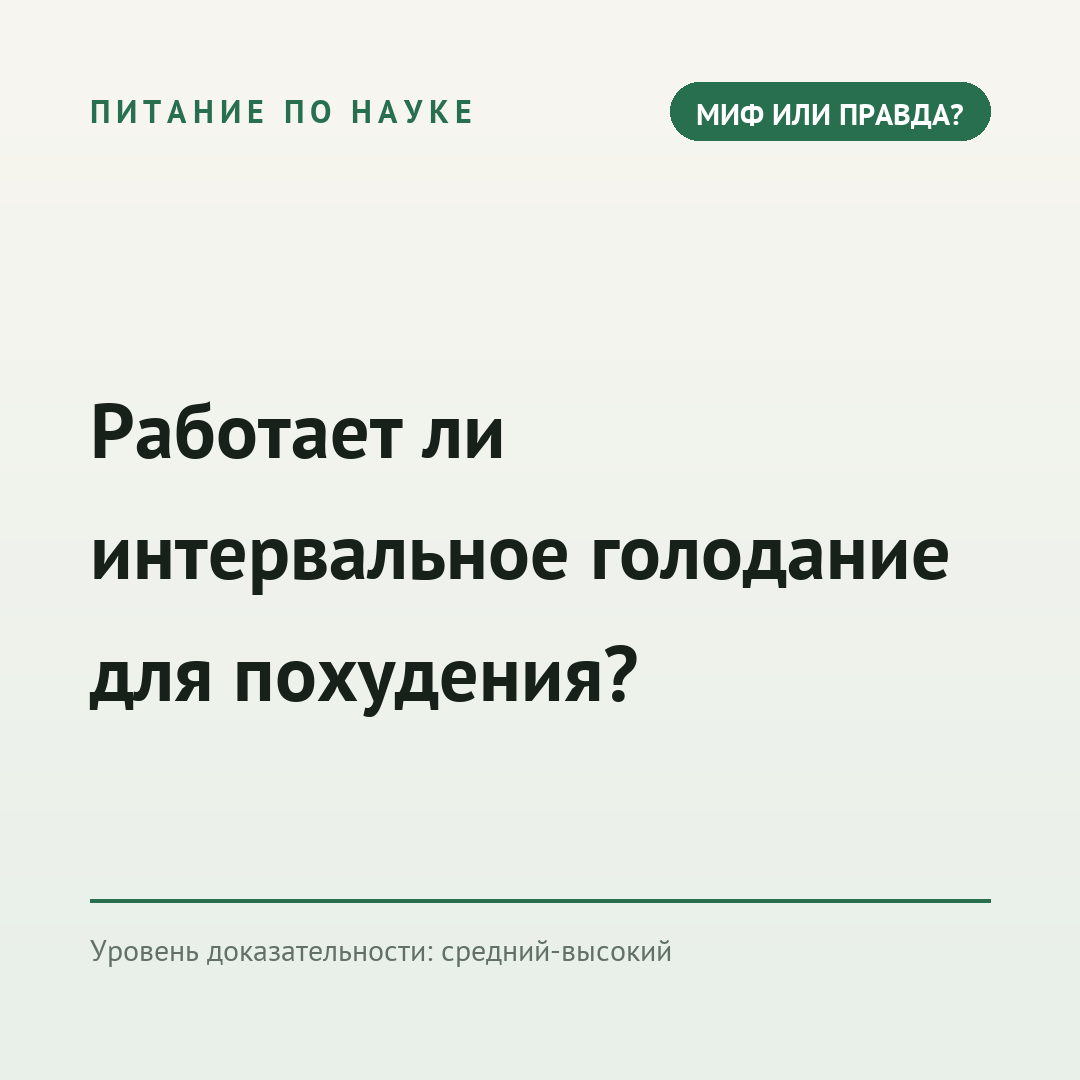
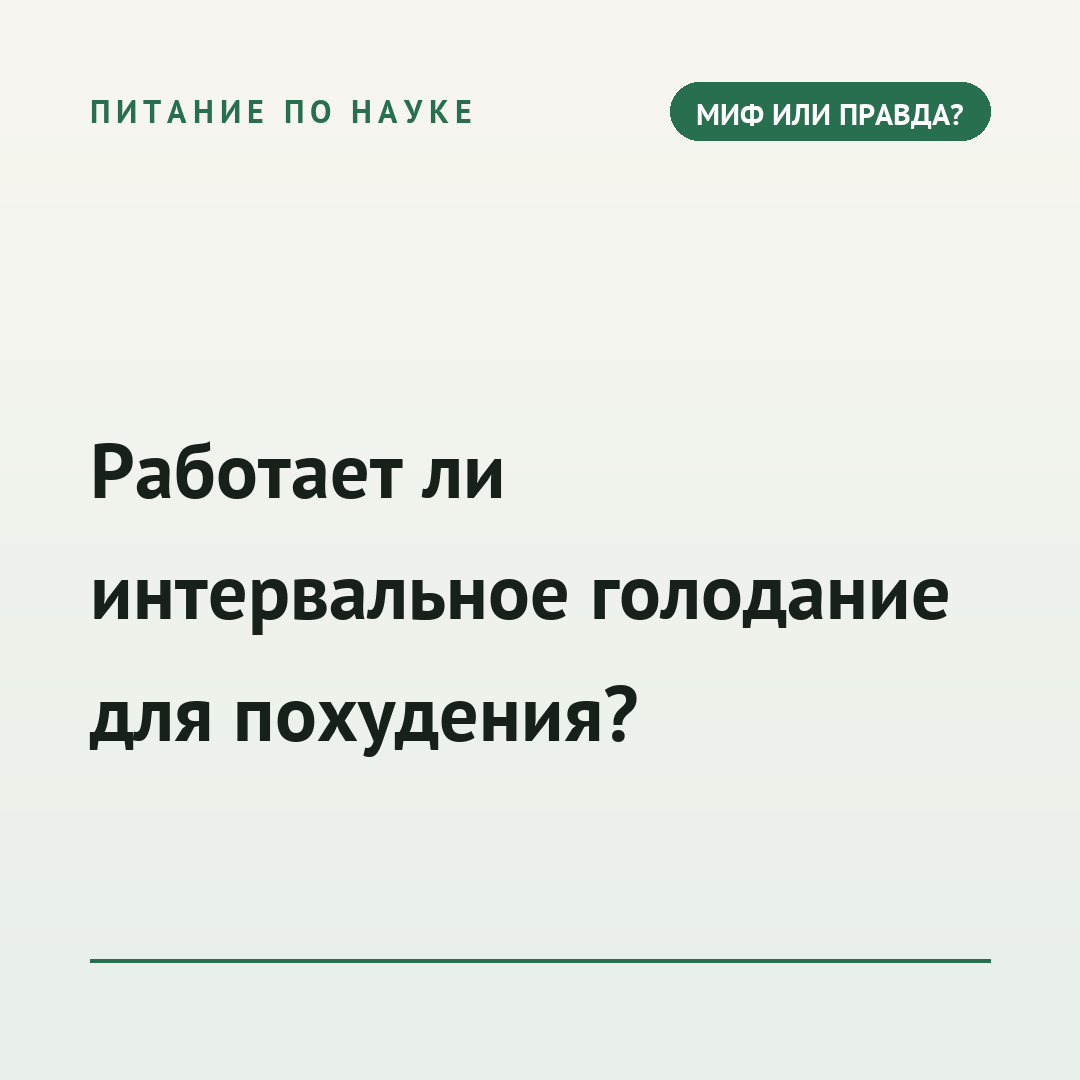
Remove evidence-level line from queued posts 003-006

diff --git a/posts/004_intermittent_fasting_caption.html b/posts/004_intermittent_fasting_caption.html
@@ -6,5 +6,4 @@
 
 Вывод: работает, если вам такой формат подходит больше, чем подсчёт калорий. Если удобнее считать калории — результат не хуже. Главное — то, чего вы придерживаетесь долго, а не сама методика.
 
-🟢 Доказательность: средний-высокий
 📚 <a href="https://www.thelancet.com/journals/eclinm/article/PIIS2589-53702400098-1/fulltext">eClinicalMedicine, umbrella review 2024</a>

diff --git a/posts/003_water_intake_caption.html b/posts/003_water_intake_caption.html
@@ -6,5 +6,4 @@
 
 Для здоровых людей жажда — надёжный ориентир. Больше нужно при жаре, физической нагрузке, беременности.
 
-🟢 Доказательность: высокий
 📚 <a href="https://www.cdc.gov/nutrition/php/data-research/fast-facts-water-consumption.html">CDC, данные о потреблении воды</a>

diff --git a/posts/005_honey_vs_sugar_caption.html b/posts/005_honey_vs_sugar_caption.html
@@ -8,5 +8,4 @@
 
 Вывод: как осмысленная замена сахару в умеренных количествах — да, чуть лучше. Как повод есть его без ограничений — нет.
 
-🟢 Доказательность: низкая-средняя
 📚 <a href="https://academic.oup.com/nutritionreviews/article/81/7/758/6827512">Nutrition Reviews, 2022</a>

diff --git a/posts/006_eating_after_6pm_caption.html b/posts/006_eating_after_6pm_caption.html
@@ -8,5 +8,4 @@
 
 Вывод: строгого запрета «после 18:00» в науке нет. Важнее суммарные калории и число приёмов пищи, а не цифра на часах.
 
-🟢 Доказательность: средняя
 📚 <a href="https://www.ahajournals.org/doi/10.1161/jaha.122.026484">JAHA, Daily24 cohort</a>
